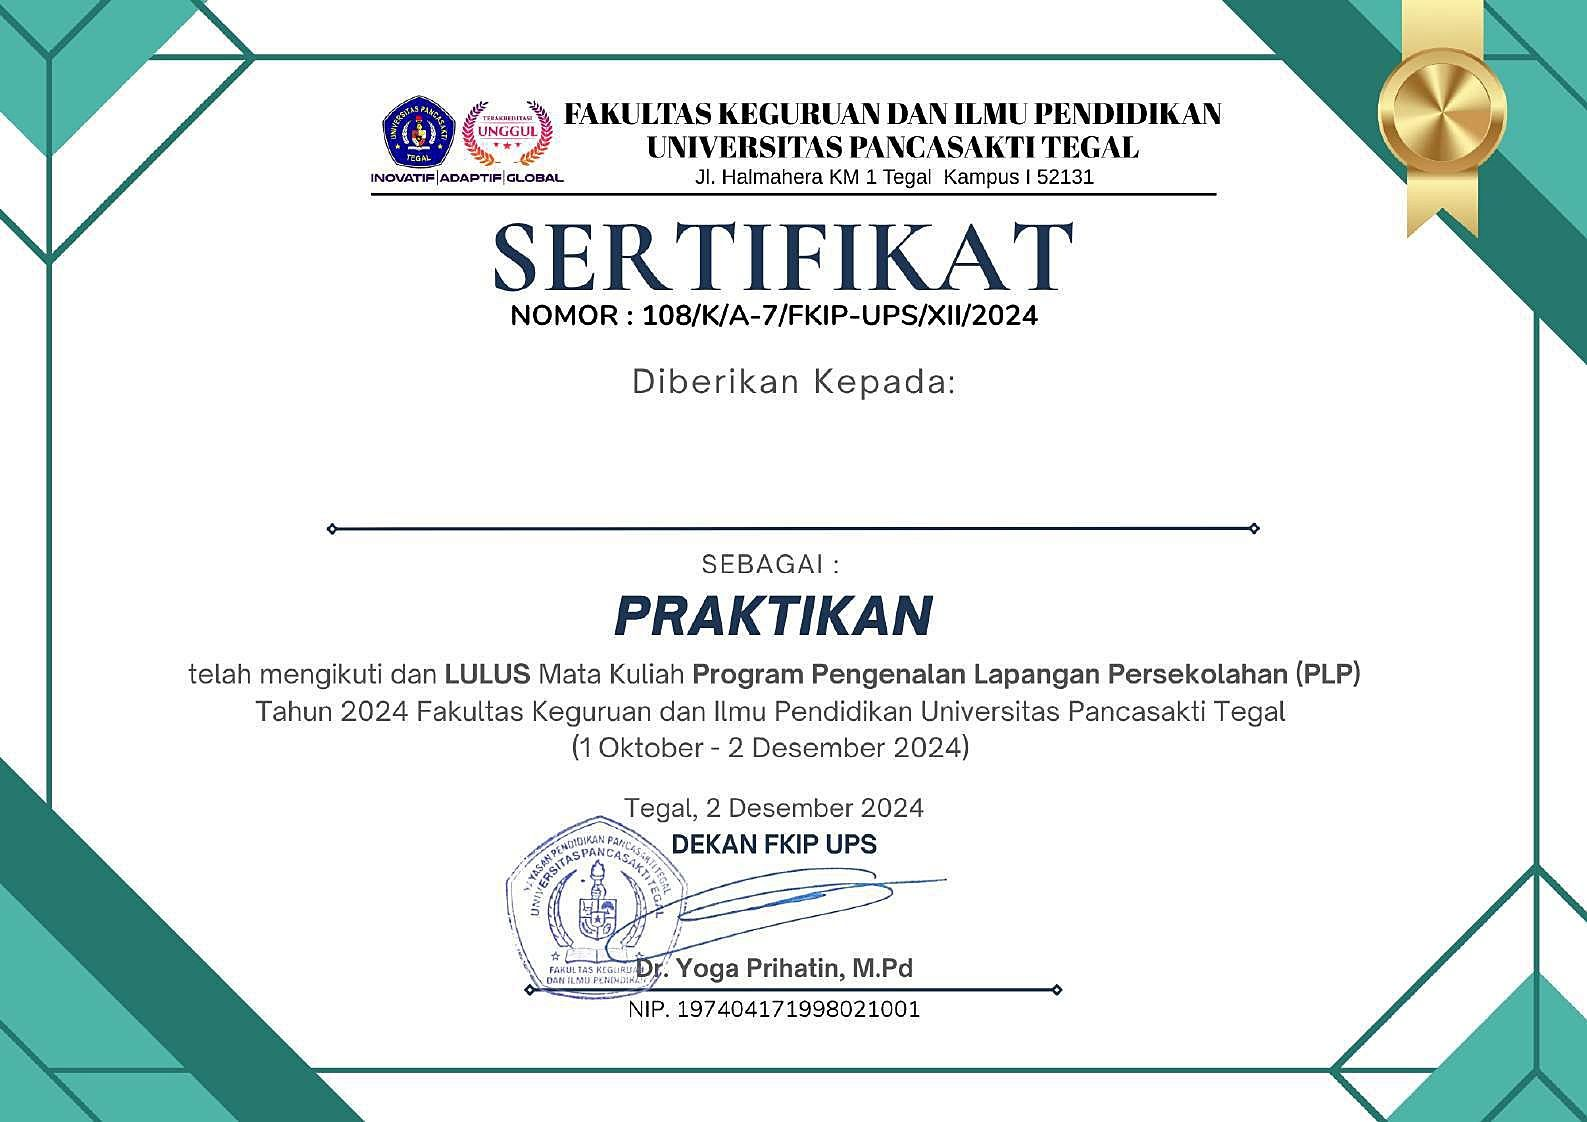
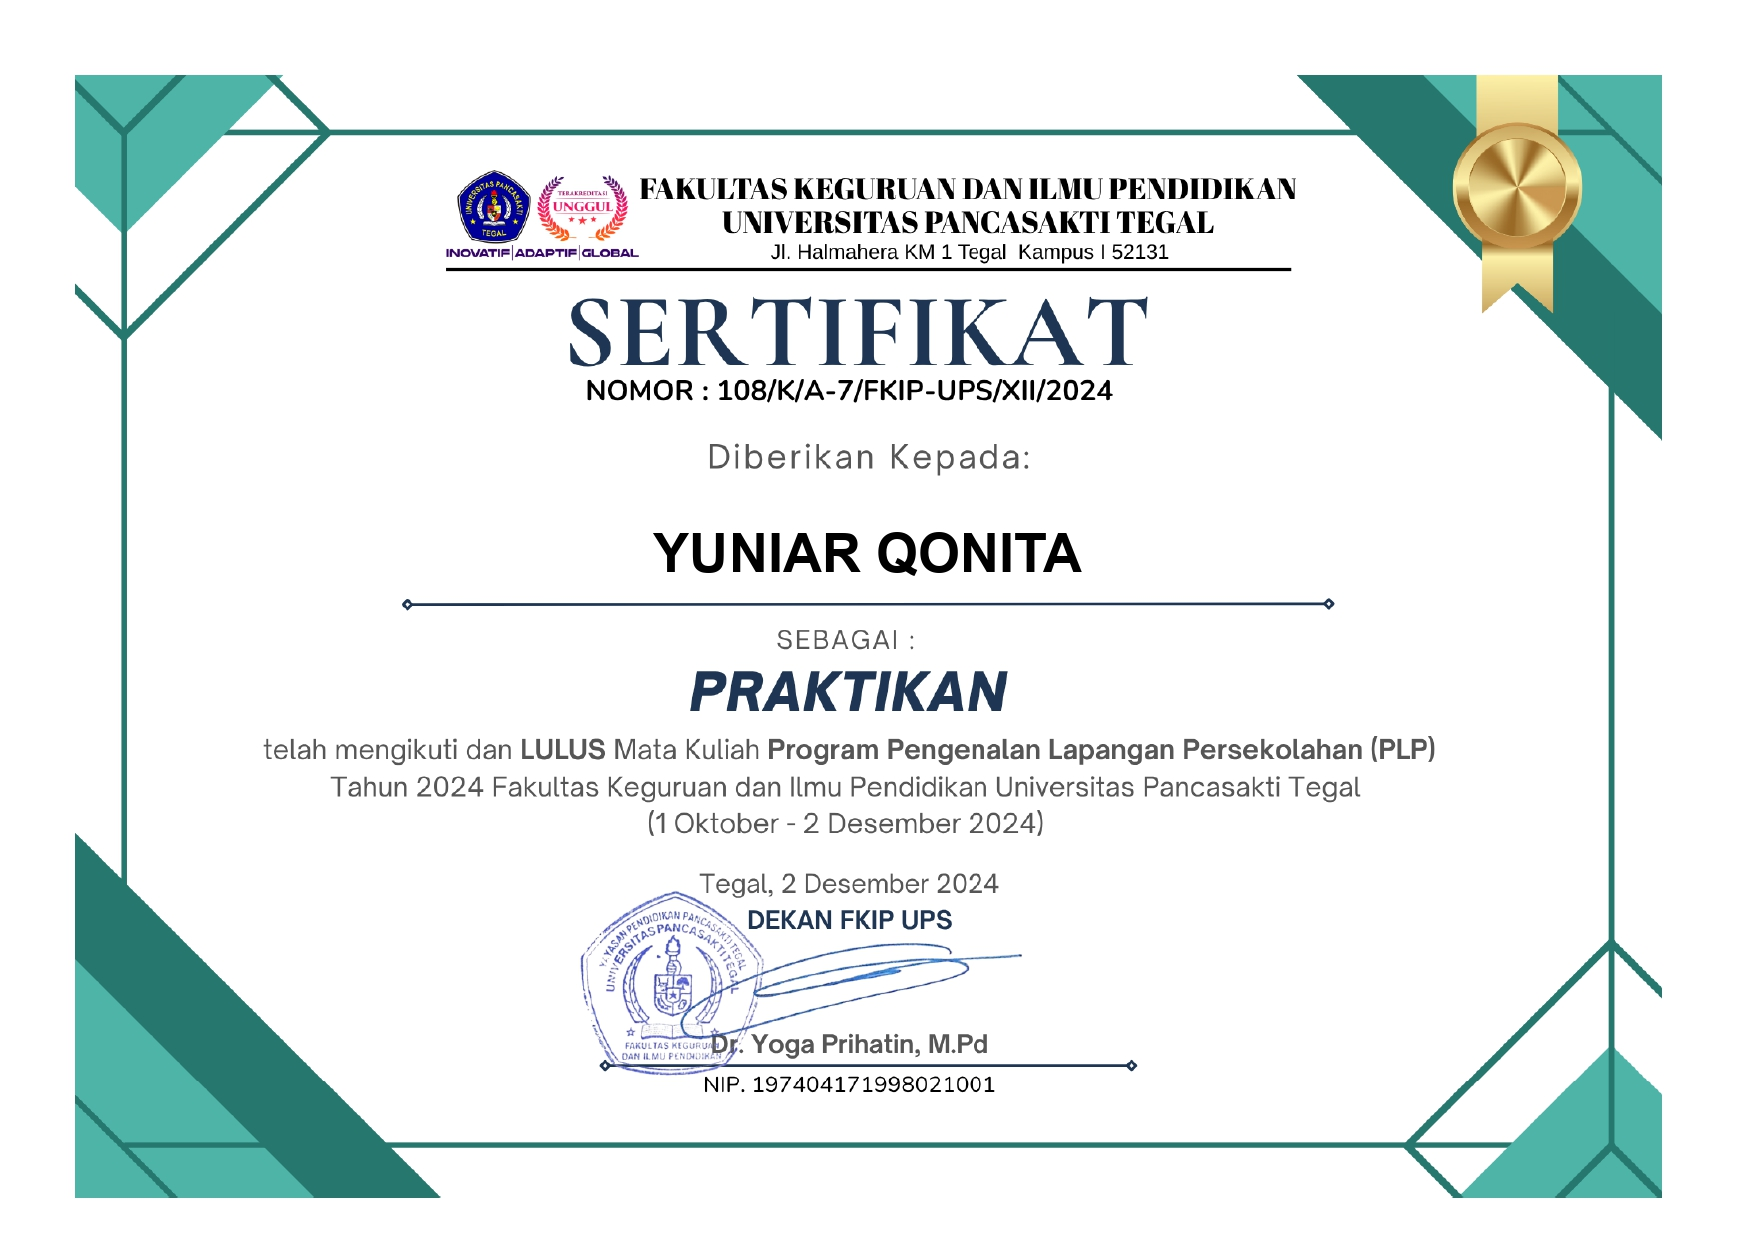
✨ Added double-click lightbox modal to Certificates and updated PLP certificate with official Yuniar Qonita credentials

Changed region(s): [[0.0, 0.0, 1.0, 1.0], [0.8336, 0.8422, 0.8645, 0.8734], [0.1235, 0.156, 0.1544, 0.1872]]

diff --git a/src/components/Certificates.jsx b/src/components/Certificates.jsx
@@ -1,7 +1,7 @@
 import React, { useContext, useState } from 'react';
 import { LanguageContext } from '../contexts/LanguageContext';
 import { translations } from '../data/translations';
-import { motion } from 'framer-motion';
+import { motion, AnimatePresence } from 'framer-motion';
 import './Certificates.css';
 
 const Certificates = () => {
@@ -18,8 +18,8 @@ const Certificates = () => {
     { left: 8, top: 84, size: 20, duration: 3.8, delay: 1.6 },
     { left: 92, top: 84, size: 20, duration: 3.3, delay: 0.6 },
   ];
-  const [hoveredId, setHoveredId] = useState(null);
   const [flippedCard, setFlippedCard] = useState(null);
+  const [selectedImg, setSelectedImg] = useState(null);
 
   const certificates = [
     {
@@ -214,6 +214,21 @@ const Certificates = () => {
               transition={{ duration: 0.55, delay: index * 0.1 }}
               whileHover={{ y: -10, scale: cert.isDouble ? 1 : 1.02 }}
               onClick={() => cert.isDouble && setFlippedCard(flippedCard === cert.id ? null : cert.id)}
+              onDoubleClick={(e) => {
+                e.stopPropagation();
+                if (cert.isDouble) {
+                  setSelectedImg({
+                    title: cert.title,
+                    img1: `${import.meta.env.BASE_URL}assets/01_CV_Sertifikat_Ijazah_KTP/${cert.img}`,
+                    img2: `${import.meta.env.BASE_URL}assets/01_CV_Sertifikat_Ijazah_KTP/${cert.img2}`,
+                  });
+                } else {
+                  setSelectedImg({
+                    title: cert.title,
+                    img1: `${import.meta.env.BASE_URL}assets/01_CV_Sertifikat_Ijazah_KTP/${cert.img}`,
+                  });
+                }
+              }}
             >
               <div className={`cert-card-inner ${flippedCard === cert.id ? 'flipped' : ''}`}>
                 <div className="cert-card-front">
@@ -223,6 +238,9 @@ const Certificates = () => {
                       alt={cert.title}
                     />
                     <div className="cert-img-shine"></div>
+                    <div className="cert-zoom-hint">
+                      {cert.isDouble ? '🖱 Klik 2x untuk lihat kedua sisi' : '🖱 Klik 2x untuk perbesar'}
+                    </div>
                   </div>
                   <div className="cert-body glass-panel">
                     <span className="cert-issuer" style={{ color: cert.color }}>
@@ -236,7 +254,7 @@ const Certificates = () => {
                         style={{ display: 'block', marginTop: '10px', fontSize: '0.85rem', color: 'var(--text-secondary)' }}
                         animate={{ rotate: flippedCard === cert.id ? 180 : 0 }}
                       >
-                        🔄 Klik untuk lihat sisi belakang
+                        🔄 Klik 1x untuk flip | Klik 2x untuk zoom
                       </motion.span>
                     )}
                   </div>
@@ -248,6 +266,7 @@ const Certificates = () => {
                         src={`${import.meta.env.BASE_URL}assets/01_CV_Sertifikat_Ijazah_KTP/${cert.img2}`}
                         alt={`${cert.title} - Belakang`}
                       />
+                      <div className="cert-zoom-hint">🖱 Klik 2x untuk lihat kedua sisi</div>
                     </div>
                     <div className="cert-body glass-panel">
                       <span className="cert-issuer" style={{ color: cert.color }}>
@@ -260,7 +279,7 @@ const Certificates = () => {
                         style={{ display: 'block', marginTop: '10px', fontSize: '0.85rem', color: 'var(--text-secondary)' }}
                         animate={{ rotate: flippedCard === cert.id ? 0 : 180 }}
                       >
-                        🔄 Klik untuk kembali
+                        🔄 Klik 1x untuk kembali | Klik 2x untuk zoom
                       </motion.span>
                     </div>
                   </div>
@@ -270,6 +289,42 @@ const Certificates = () => {
           ))}
         </div>
       </div>
+
+      {/* ===== CERTIFICATE LIGHTBOX MODAL ===== */}
+      <AnimatePresence>
+        {selectedImg && (
+          <motion.div
+            className="lightbox-overlay"
+            initial={{ opacity: 0 }}
+            animate={{ opacity: 1 }}
+            exit={{ opacity: 0 }}
+            onClick={() => setSelectedImg(null)}
+          >
+            <motion.div
+              className={`lightbox-content ${selectedImg.img2 ? 'dual-layout' : 'single-layout'}`}
+              initial={{ scale: 0.85, opacity: 0 }}
+              animate={{ scale: 1, opacity: 1 }}
+              exit={{ scale: 0.85, opacity: 0 }}
+              onClick={(e) => e.stopPropagation()}
+            >
+              <button className="lightbox-close" onClick={() => setSelectedImg(null)}>✕</button>
+              <div className="lightbox-title-bar">{selectedImg.title}</div>
+              <div className="lightbox-images-container">
+                <div className="lightbox-image-wrapper">
+                  {selectedImg.img2 && <div className="lightbox-side-label">SISI DEPAN / SERTIFIKAT</div>}
+                  <img src={selectedImg.img1} alt="Preview Front" />
+                </div>
+                {selectedImg.img2 && (
+                  <div className="lightbox-image-wrapper">
+                    <div className="lightbox-side-label">SISI BELAKANG / TRANSKRIP NILAI</div>
+                    <img src={selectedImg.img2} alt="Preview Back" />
+                  </div>
+                )}
+              </div>
+            </motion.div>
+          </motion.div>
+        )}
+      </AnimatePresence>
     </section>
   );
 };

diff --git a/src/components/Certificates.css b/src/components/Certificates.css
@@ -161,3 +161,137 @@
   transform: rotateY(180deg);
   height: 100%;
 }
+
+/* Zoom hint on hover */
+.cert-zoom-hint {
+  position: absolute;
+  bottom: 0;
+  left: 0;
+  right: 0;
+  background: linear-gradient(to top, rgba(6, 6, 20, 0.85), transparent);
+  color: rgba(255, 255, 255, 0.85);
+  font-size: 0.75rem;
+  font-weight: 600;
+  padding: 1.2rem 1rem 0.6rem;
+  text-align: center;
+  opacity: 0;
+  transition: opacity 0.3s ease;
+  letter-spacing: 0.5px;
+  z-index: 2;
+}
+
+.cert-card:hover .cert-zoom-hint {
+  opacity: 1;
+}
+
+/* Lightbox styles for Certificates */
+.certificates-section .lightbox-overlay {
+  position: fixed;
+  inset: 0;
+  background: rgba(0, 0, 0, 0.9);
+  backdrop-filter: blur(10px);
+  z-index: 9999;
+  display: flex;
+  align-items: center;
+  justify-content: center;
+  padding: 2rem;
+  cursor: zoom-out;
+}
+
+.certificates-section .lightbox-content {
+  position: relative;
+  max-width: 90vw;
+  max-height: 90vh;
+  display: flex;
+  flex-direction: column;
+  align-items: center;
+  cursor: default;
+}
+
+.certificates-section .lightbox-title-bar {
+  color: #fff;
+  font-family: var(--font-display);
+  font-size: 1.1rem;
+  font-weight: 700;
+  margin-bottom: 1rem;
+  text-align: center;
+  text-shadow: 0 0 10px rgba(0, 240, 255, 0.5);
+}
+
+.certificates-section .lightbox-close {
+  position: absolute;
+  top: -2.5rem;
+  right: 0;
+  background: rgba(255, 255, 255, 0.15);
+  border: 1px solid rgba(255, 255, 255, 0.3);
+  color: #fff;
+  font-size: 1.2rem;
+  width: 2.2rem;
+  height: 2.2rem;
+  border-radius: 50%;
+  cursor: pointer;
+  display: flex;
+  align-items: center;
+  justify-content: center;
+  transition: all 0.3s ease;
+}
+
+.certificates-section .lightbox-close:hover {
+  background: var(--accent-pink);
+  transform: scale(1.1);
+}
+
+.certificates-section .lightbox-images-container {
+  display: flex;
+  gap: 1.5rem;
+  justify-content: center;
+  align-items: center;
+  max-height: 80vh;
+  flex-wrap: wrap;
+}
+
+.certificates-section .lightbox-image-wrapper {
+  display: flex;
+  flex-direction: column;
+  align-items: center;
+  max-height: 75vh;
+}
+
+.certificates-section .lightbox-side-label {
+  font-size: 0.75rem;
+  font-weight: 700;
+  text-transform: uppercase;
+  letter-spacing: 1.5px;
+  color: var(--accent-color);
+  background: rgba(0, 240, 255, 0.12);
+  border: 1px solid rgba(0, 240, 255, 0.3);
+  padding: 0.25rem 0.75rem;
+  border-radius: 20px;
+  margin-bottom: 0.5rem;
+}
+
+.certificates-section .lightbox-image-wrapper img {
+  max-height: 70vh;
+  max-width: 42vw;
+  object-fit: contain;
+  border-radius: 12px;
+  border: 1px solid rgba(255, 255, 255, 0.15);
+  box-shadow: 0 10px 40px rgba(0, 0, 0, 0.6);
+}
+
+.certificates-section .single-layout .lightbox-image-wrapper img {
+  max-width: 80vw;
+  max-height: 75vh;
+}
+
+@media (max-width: 768px) {
+  .certificates-section .lightbox-images-container {
+    flex-direction: column;
+    overflow-y: auto;
+  }
+  .certificates-section .lightbox-image-wrapper img {
+    max-width: 85vw;
+    max-height: 40vh;
+  }
+}
+
